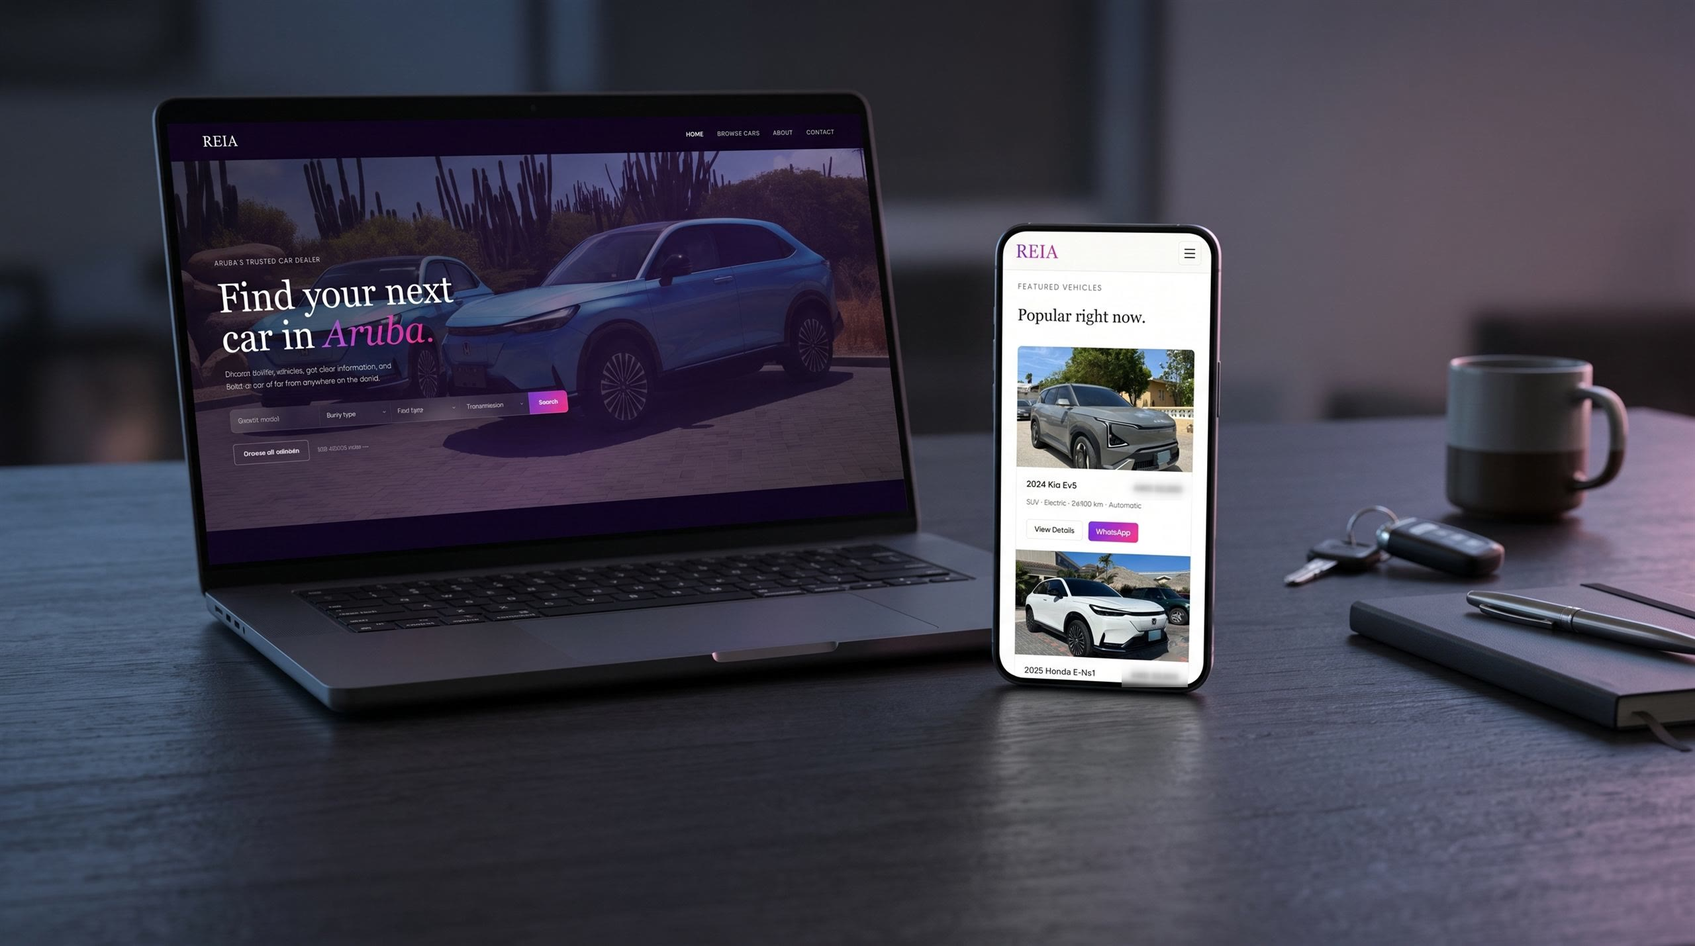
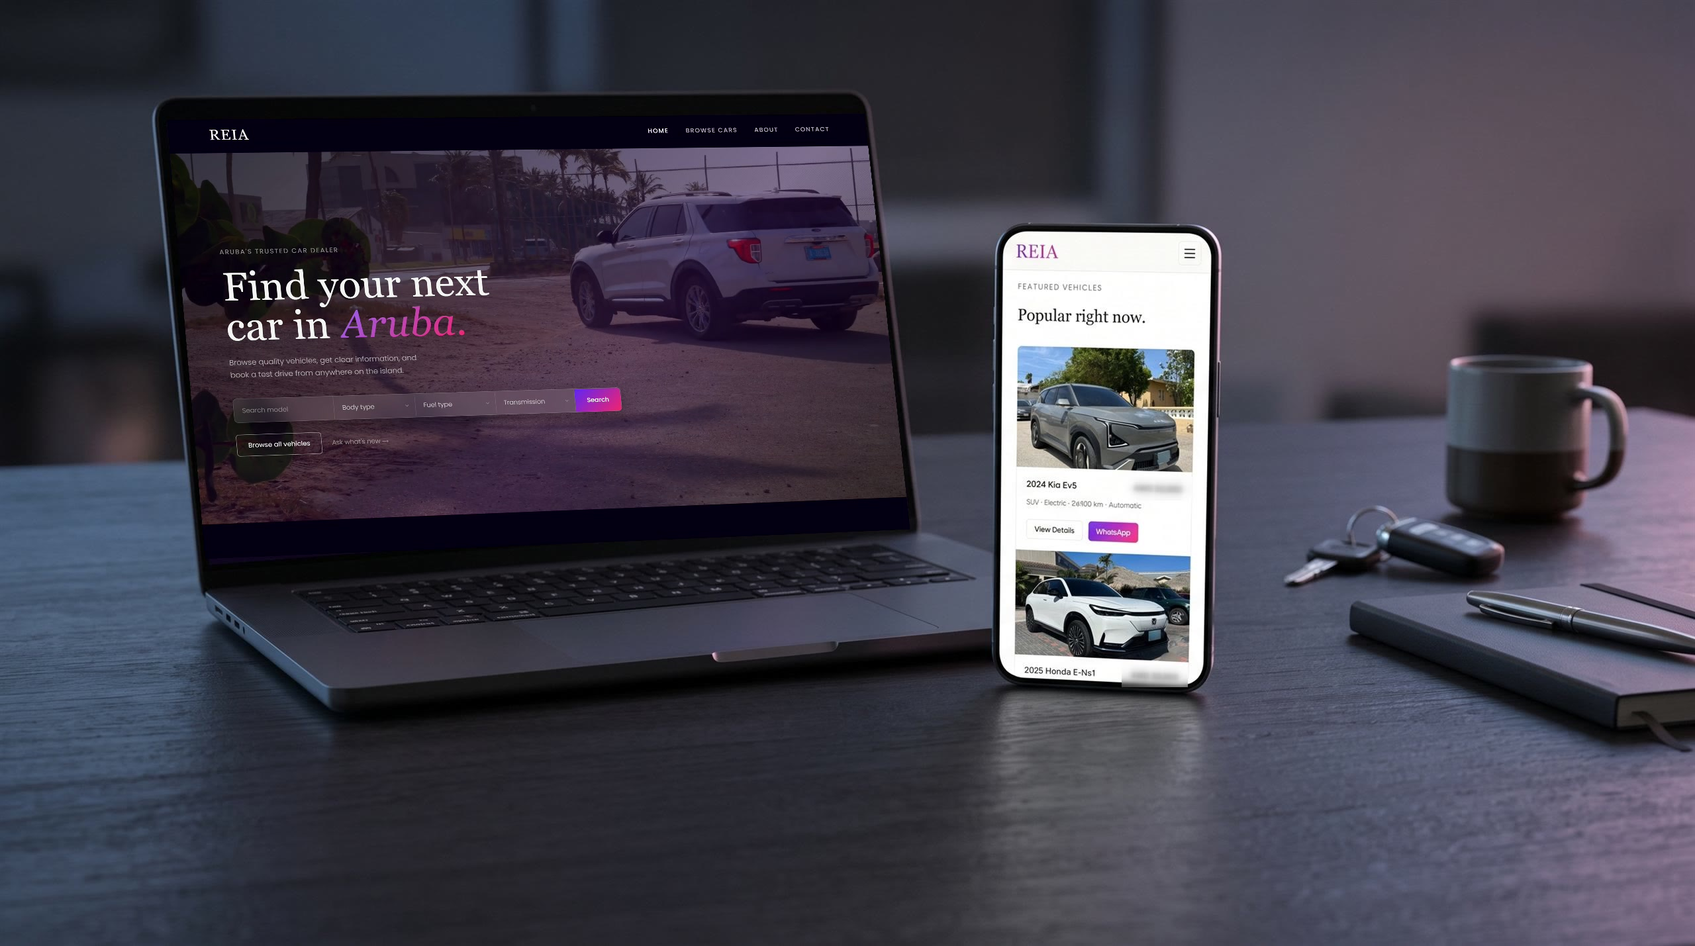
REIA: full story with takeover, research, redesign, build, tools and reflection; real site on cover laptop. Chromodynamics: mobile app before/after. New About me; more space under images

Changed region(s): [[0.0938, 0.1232, 0.5312, 0.585]]

diff --git a/reia.html b/reia.html
@@ -39,7 +39,8 @@
         <div><dt class="cv-label">Role</dt><dd>Web Designer &amp; Developer</dd></div>
         <div><dt class="cv-label">Timeline</dt><dd>Feb – Mar 2026</dd></div>
         <div><dt class="cv-label">Client</dt><dd>REIA Motors, Oranjestad, Aruba</dd></div>
-        <div><dt class="cv-label">Tools</dt><dd>Adobe XD, HTML, CSS, JavaScript, Decap CMS, GitHub, Netlify</dd></div>
+        <div><dt class="cv-label">Deliverables</dt><dd>Website redesign, live website, CMS</dd></div>
+        <div><dt class="cv-label">Tools</dt><dd>Adobe XD, Photoshop, HTML, CSS, JavaScript, Decap CMS, GitHub, Netlify</dd></div>
         <div><dt class="cv-label">Live site</dt><dd><a class="cv-link" href="https://reiamotors.com/" target="_blank" rel="noopener">reiamotors.com ↗</a></dd></div>
       </dl>
     </div>
@@ -47,7 +48,7 @@
 
   <!-- Case study body: statement and key numbers, then a sticky index (js/case-index.js) next to editorial sections -->
   <div class="ed-top">
-    <p class="ed-statement ed-serif">A website the client can run themselves: designed and built for <em>REIA Motors</em>, a used-car dealer in Aruba, from brief to live site.</p>
+    <p class="ed-statement ed-serif">I took over the website of <em>REIA Motors</em>, a used-car dealer in Aruba, redesigned it and built it with a CMS the owner can run himself.</p>
     <hr class="ed-rule" />
   </div>
 
@@ -55,43 +56,74 @@
 
     <aside class="cs-index">
       <ol>
-        <li><a href="#client"><span>01</span>The client</a></li>
-        <li><a href="#brief"><span>02</span>The brief</a></li>
-        <li><a href="#gradient"><span>03</span>The gradient</a></li>
-        <li><a href="#cms"><span>04</span>The CMS</a></li>
-        <li><a href="#role"><span>05</span>My role</a></li>
+        <li><a href="#client"><span>01</span>Introduction</a></li>
+        <li><a href="#problem"><span>02</span>The problem</a></li>
+        <li><a href="#research"><span>03</span>Research</a></li>
+        <li><a href="#design"><span>04</span>The redesign</a></li>
+        <li><a href="#build"><span>05</span>Building it</a></li>
+        <li><a href="#role"><span>06</span>My role</a></li>
+        <li><a href="#learned"><span>07</span>What I learned</a></li>
       </ol>
     </aside>
 
     <main class="cs-content">
 
       <section class="cs-section ed-text" id="client">
-        <p class="cv-label">01 — The client</p>
+        <p class="cv-label">01 — Introduction</p>
         <h2 class="ed-serif">A used-car dealer in Oranjestad</h2>
         <p>
-          REIA Motors is a used-car dealer in Oranjestad, Aruba, which also imports cars.
-          <!-- PLACEHOLDER: one sentence on who their customers are and what they had online before -->
+          REIA Motors is a used-car dealer in Oranjestad, Aruba, which also imports cars. The owner is a
+          mutual friend, and I took over the project from the people who worked on it before me while I was
+          on vacation in Aruba.
+        </p>
+        <p>
+          He wanted a website that feels clean, sleek and luxurious, and one he could manage himself without
+          calling a developer every time a car is sold or added. I had only four weeks, and full freedom: the
+          owner knew nothing about websites, so I was the expert and had to make the calls myself.
+        </p>
+      </section>
+
+      <section class="cs-section ed-text" id="problem">
+        <p class="cv-label">02 — The problem</p>
+        <h2 class="ed-serif">A design that was only half there</h2>
+        <p>
+          This is the design I took over. The gradient filled the whole navigation and footer, and the car
+          listings were still empty placeholders. It didn’t feel clean or luxurious yet, which was exactly
+          what the owner wanted.
         </p>
         <figure class="ed-media">
-          <img src="assets/projects/reia/live-site-hero.jpg" alt="REIA Motors homepage: dark hero with the pink-purple gradient on the headline and search button" />
-          <figcaption class="cv-label">The live homepage, reiamotors.com</figcaption>
+          <img src="assets/projects/reia/design-before.jpg" alt="The earlier REIA Motors design I took over: a full pink-purple gradient navigation bar, a hero photo of two cars with a search bar, and grey placeholder boxes for featured vehicles" />
+          <figcaption class="cv-label">The design from the people before me</figcaption>
         </figure>
       </section>
 
-      <section class="cs-section ed-text" id="brief">
-        <p class="cv-label">02 — The brief</p>
-        <h2 class="ed-serif">Clean, sleek, luxurious, and easy to manage</h2>
+      <section class="cs-section ed-text" id="research">
+        <p class="cv-label">03 — Research</p>
+        <h2 class="ed-serif">Learning from other car websites</h2>
         <p>
-          The client wanted a website that feels clean, sleek and luxurious, and one they could manage
-          themselves without calling a developer every time a car is sold or added.
+          Before redesigning, I looked at other car websites for inspiration. They had a few things in
+          common: a big search bar right in the hero, dark and calm backgrounds that let the cars stand out,
+          and car cards that show the key details at a glance.
         </p>
+        <div class="ed-trio">
+          <figure class="ed-media">
+            <img src="assets/projects/reia/inspo-1.jpg" alt="Inspiration: a premium car rental website with a white car in the hero and a booking search bar" />
+          </figure>
+          <figure class="ed-media">
+            <img src="assets/projects/reia/inspo-2.jpg" alt="Inspiration: a dark Porsche 911 product page with large specs" />
+          </figure>
+          <figure class="ed-media">
+            <img src="assets/projects/reia/inspo-3.jpg" alt="Inspiration: a used-car dealer website with a search bar over the hero and body style filters" />
+          </figure>
+        </div>
+        <p class="cv-label" style="margin-top:12px">Inspiration from other car websites (not my work)</p>
       </section>
 
-      <section class="cs-section ed-text" id="gradient">
-        <p class="cv-label">03 — Challenge</p>
-        <h2 class="ed-serif">Making a pink-purple gradient feel premium</h2>
+      <section class="cs-section ed-text" id="design">
+        <p class="cv-label">04 — The redesign</p>
+        <h2 class="ed-serif">Making it feel premium</h2>
         <p>
-          The client’s brand colour is a pink-purple gradient. Used everywhere, it can easily feel loud
+          The brand colour is a pink-purple gradient. Used everywhere, like in the old design, it feels loud
           rather than luxurious. My solution was restraint: the gradient appears only in a few deliberate places.
         </p>
         <div class="ed-rows">
@@ -99,38 +131,90 @@
           <div><b>Buttons</b><span>The main actions, like Search</span></div>
           <div><b>Hover underline</b><span>A gradient line under links on hover</span></div>
           <div><b>Dark hero</b><span>The hero section, where the gradient stands out most</span></div>
-          <div><b>Navigation</b><span>A light navigation bar that appears on scroll</span></div>
         </div>
         <p style="margin-top:20px">
-          Everything else stays calm and neutral, so the gradient reads as a signature rather than decoration.
-          <!-- PLACEHOLDER: the fonts you used and why you chose them -->
+          I also made a soft gradient shape in Photoshop by combining their brand colours. It comes back
+          throughout the website.
         </p>
+        <figure class="ed-media">
+          <img src="assets/projects/reia/gradient.jpg" alt="A soft, blurred pink-purple gradient shape I created for the REIA Motors website" />
+          <figcaption class="cv-label">The gradient shape I made in Photoshop</figcaption>
+        </figure>
+        <p>
+          Everything else stays calm and neutral, so the gradient reads as a signature rather than decoration.
+          For the type I used Georgia, the same serif as the logo, so the website and the brand feel like one.
+          Every car card now shows the key details and a direct WhatsApp button.
+        </p>
+        <figure class="ed-media">
+          <img src="assets/projects/reia/design-xd.jpg" alt="My REIA Motors redesign in Adobe XD: a black hero with the serif headline Find your next car in Aruba, a search bar with filters, and car cards with price, details and WhatsApp buttons" />
+          <figcaption class="cv-label">My redesign of the homepage in Adobe XD</figcaption>
+        </figure>
+        <p>
+          Being the expert also meant pushing back. When the owner wanted his logo bigger, I told him the size
+          was just right: we want people to look at the cars and buy one, not look at the logo. It went the
+          other way too. For the About page I really pushed to show the team, because faces build trust when
+          you’re buying a car, but the owner preferred to stay anonymous, so the team section didn’t make it
+          to the live site.
+        </p>
+        <figure class="ed-media">
+          <img src="assets/projects/reia/about-xd.jpg" alt="My About page design for REIA Motors in Adobe XD: the serif headline Driven by Value, Backed by Trust next to the gradient shape, the mission and four values, and a team section with the names blurred" />
+          <figcaption class="cv-label">The About page in Adobe XD, with the team names blurred</figcaption>
+        </figure>
       </section>
 
-      <section class="cs-section ed-text" id="cms">
-        <p class="cv-label">04 — Challenge</p>
-        <h2 class="ed-serif">A CMS the client could use</h2>
+      <section class="cs-section ed-text" id="build">
+        <p class="cv-label">05 — Building it</p>
+        <h2 class="ed-serif">From design to live site, with a CMS</h2>
         <p>
-          The client wanted to manage their own listings. I set up Decap CMS on top of a GitHub repository,
-          deployed through Netlify, so they can add, edit and remove cars through an editor instead of touching code.
-          <!-- PLACEHOLDER: how you onboarded the client (a handover session, a guide, something else) -->
+          I built the site myself with HTML, CSS and JavaScript. For the search bar I went for Apple’s glass
+          effect. As you can see, I’m a fan: it makes the website look clean and professional. Behind it plays
+          a video with a darker filter on top, and the navigation bar changes colour when you scroll.
+        </p>
+        <figure class="ed-media">
+          <img src="assets/projects/reia/live-site-hero.jpg" alt="REIA Motors homepage: dark hero with the pink-purple gradient on the headline and search button" />
+          <figcaption class="cv-label">The live homepage, reiamotors.com</figcaption>
+        </figure>
+        <p>
+          The owner wanted to manage his own listings, so I set up Decap CMS on top of a GitHub repository,
+          deployed through Netlify. He can add, edit and remove cars through an editor instead of touching code.
+          Before I flew back, I explained to him in person how to use it.
         </p>
       </section>
 
       <section class="cs-section ed-text" id="role">
-        <p class="cv-label">05 — My role</p>
+        <p class="cv-label">06 — My role</p>
         <h2 class="ed-serif">Design and build, end to end</h2>
         <div class="ed-rows">
-          <div><b>Design</b><span>I designed the site in Adobe XD, from the client brief to the prototype.</span></div>
+          <div><b>Design</b><span>I redesigned the site in Adobe XD, starting from the design I took over.</span></div>
           <div><b>Development</b><span>I built it myself with HTML, CSS and JavaScript (AI-assisted, reviewed and debugged by me).</span></div>
           <div><b>CMS and hosting</b><span>Decap CMS, GitHub and Netlify, so the client can manage their own listings.</span></div>
+          <div><b>Tools and tech</b><div>
+            <!-- Logos: Simple Icons (simpleicons.org) where available; Adobe, Decap and Netlify drawn as simple marks -->
+            <ul class="ed-stack">
+              <li><svg aria-hidden="true" focusable="false" viewBox="0 0 24 24" xmlns="http://www.w3.org/2000/svg"><rect x="1.5" y="1.5" width="21" height="21" rx="5" fill="none" stroke="currentColor" stroke-width="2"/><text x="12" y="16.2" text-anchor="middle" font-size="10.5" font-weight="700" font-family="Arial, sans-serif">Xd</text></svg><span>Adobe XD</span></li>
+              <li><svg aria-hidden="true" focusable="false" viewBox="0 0 24 24" xmlns="http://www.w3.org/2000/svg"><rect x="1.5" y="1.5" width="21" height="21" rx="5" fill="none" stroke="currentColor" stroke-width="2"/><text x="12" y="16.2" text-anchor="middle" font-size="10.5" font-weight="700" font-family="Arial, sans-serif">Ps</text></svg><span>Photoshop</span></li>
+              <li><svg aria-hidden="true" focusable="false" viewBox="0 0 24 24" xmlns="http://www.w3.org/2000/svg"><path d="M1.5 0h21l-1.91 21.563L11.977 24l-8.564-2.438L1.5 0zm7.031 9.75l-.232-2.718 10.059.003.23-2.622L5.412 4.41l.698 8.01h9.126l-.326 3.426-2.91.804-2.955-.81-.188-2.11H6.248l.33 4.171L12 19.351l5.379-1.443.744-8.157H8.531z"/></svg><span>HTML</span></li>
+              <li><svg aria-hidden="true" focusable="false" viewBox="0 0 24 24" xmlns="http://www.w3.org/2000/svg"><path d="M1.5 0h21l-1.91 21.563L11.977 24l-8.565-2.438L1.5 0zm17.09 4.413L5.41 4.41l.213 2.622 10.125.002-.255 2.716h-6.64l.24 2.573h6.182l-.366 3.523-2.91.804-2.956-.81-.188-2.11h-2.61l.29 3.855L12 19.288l5.373-1.53L18.59 4.414z"/></svg><span>CSS</span></li>
+              <li><svg aria-hidden="true" focusable="false" viewBox="0 0 24 24" xmlns="http://www.w3.org/2000/svg"><path d="M0 0h24v24H0V0zm22.034 18.276c-.175-1.095-.888-2.015-3.003-2.873-.736-.345-1.554-.585-1.797-1.14-.091-.33-.105-.51-.046-.705.15-.646.915-.84 1.515-.66.39.12.75.42.976.9 1.034-.676 1.034-.676 1.755-1.125-.27-.42-.404-.601-.586-.78-.63-.705-1.469-1.065-2.834-1.034l-.705.089c-.676.165-1.32.525-1.71 1.005-1.14 1.291-.811 3.541.569 4.471 1.365 1.02 3.361 1.244 3.616 2.205.24 1.17-.87 1.545-1.966 1.41-.811-.18-1.26-.586-1.755-1.336l-1.83 1.051c.21.48.45.689.81 1.109 1.74 1.756 6.09 1.666 6.871-1.004.029-.09.24-.705.074-1.65l.046.067zm-8.983-7.245h-2.248c0 1.938-.009 3.864-.009 5.805 0 1.232.063 2.363-.138 2.711-.33.689-1.18.601-1.566.48-.396-.196-.597-.466-.83-.855-.063-.105-.11-.196-.127-.196l-1.825 1.125c.305.63.75 1.172 1.324 1.517.855.51 2.004.675 3.207.405.783-.226 1.458-.691 1.811-1.411.51-.93.402-2.07.397-3.346.012-2.054 0-4.109 0-6.179l.004-.056z"/></svg><span>JavaScript</span></li>
+              <li><svg aria-hidden="true" focusable="false" viewBox="0 0 24 24" xmlns="http://www.w3.org/2000/svg"><path d="M3 17.25V21h3.75L17.81 9.94l-3.75-3.75L3 17.25zM20.71 7.04a1 1 0 0 0 0-1.41l-2.34-2.34a1 1 0 0 0-1.41 0l-1.83 1.83 3.75 3.75 1.83-1.83z"/></svg><span>Decap CMS</span></li>
+              <li><svg aria-hidden="true" focusable="false" viewBox="0 0 24 24" xmlns="http://www.w3.org/2000/svg"><path d="M12 .297c-6.63 0-12 5.373-12 12 0 5.303 3.438 9.8 8.205 11.385.6.113.82-.258.82-.577 0-.285-.01-1.04-.015-2.04-3.338.724-4.042-1.61-4.042-1.61C4.422 18.07 3.633 17.7 3.633 17.7c-1.087-.744.084-.729.084-.729 1.205.084 1.838 1.236 1.838 1.236 1.07 1.835 2.809 1.305 3.495.998.108-.776.417-1.305.76-1.605-2.665-.3-5.466-1.332-5.466-5.93 0-1.31.465-2.38 1.235-3.22-.135-.303-.54-1.523.105-3.176 0 0 1.005-.322 3.3 1.23.96-.267 1.98-.399 3-.405 1.02.006 2.04.138 3 .405 2.28-1.552 3.285-1.23 3.285-1.23.645 1.653.24 2.873.12 3.176.765.84 1.23 1.91 1.23 3.22 0 4.61-2.805 5.625-5.475 5.92.42.36.81 1.096.81 2.22 0 1.606-.015 2.896-.015 3.286 0 .315.21.69.825.57C20.565 22.092 24 17.592 24 12.297c0-6.627-5.373-12-12-12"/></svg><span>GitHub</span></li>
+              <li><svg aria-hidden="true" focusable="false" viewBox="0 0 24 24" xmlns="http://www.w3.org/2000/svg"><path d="M12 1.5 22.5 12 12 22.5 1.5 12Z" fill="none" stroke="currentColor" stroke-width="2"/><circle cx="12" cy="12" r="2.6"/></svg><span>Netlify</span></li>
+              <li><svg aria-hidden="true" focusable="false" viewBox="0 0 24 24" xmlns="http://www.w3.org/2000/svg"><path d="m4.7144 15.9555 4.7174-2.6471.079-.2307-.079-.1275h-.2307l-.7893-.0486-2.6956-.0729-2.3375-.0971-2.2646-.1214-.5707-.1215-.5343-.7042.0546-.3522.4797-.3218.686.0608 1.5179.1032 2.2767.1578 1.6514.0972 2.4468.255h.3886l.0546-.1579-.1336-.0971-.1032-.0972L6.973 9.8356l-2.55-1.6879-1.3356-.9714-.7225-.4918-.3643-.4614-.1578-1.0078.6557-.7225.8803.0607.2246.0607.8925.686 1.9064 1.4754 2.4893 1.8336.3643.3035.1457-.1032.0182-.0728-.164-.2733-1.3539-2.4467-1.445-2.4893-.6435-1.032-.17-.6194c-.0607-.255-.1032-.4674-.1032-.7285L6.287.1335 6.6997 0l.9957.1336.419.3642.6192 1.4147 1.0018 2.2282 1.5543 3.0296.4553.8985.2429.8318.091.255h.1579v-.1457l.1275-1.706.2368-2.0947.2307-2.6957.0789-.7589.3764-.9107.7468-.4918.5828.2793.4797.686-.0668.4433-.2853 1.8517-.5586 2.9021-.3643 1.9429h.2125l.2429-.2429.9835-1.3053 1.6514-2.0643.7286-.8196.85-.9046.5464-.4311h1.0321l.759 1.1293-.34 1.1657-1.0625 1.3478-.8804 1.1414-1.2628 1.7-.7893 1.36.0729.1093.1882-.0183 2.8535-.607 1.5421-.2794 1.8396-.3157.8318.3886.091.3946-.3278.8075-1.967.4857-2.3072.4614-3.4364.8136-.0425.0304.0486.0607 1.5482.1457.6618.0364h1.621l3.0175.2247.7892.522.4736.6376-.079.4857-1.2142.6193-1.6393-.3886-3.825-.9107-1.3113-.3279h-.1822v.1093l1.0929 1.0686 2.0035 1.8092 2.5075 2.3314.1275.5768-.3218.4554-.34-.0486-2.2039-1.6575-.85-.7468-1.9246-1.621h-.1275v.17l.4432.6496 2.3436 3.5214.1214 1.0807-.17.3521-.6071.2125-.6679-.1214-1.3721-1.9246L14.38 17.959l-1.1414-1.9428-.1397.079-.674 7.2552-.3156.3703-.7286.2793-.6071-.4614-.3218-.7468.3218-1.4753.3886-1.9246.3157-1.53.2853-1.9004.17-.6314-.0121-.0425-.1397.0182-1.4328 1.9672-2.1796 2.9446-1.7243 1.8456-.4128.164-.7164-.3704.0667-.6618.4008-.5889 2.386-3.0357 1.4389-1.882.929-1.0868-.0062-.1579h-.0546l-6.3385 4.1164-1.1293.1457-.4857-.4554.0608-.7467.2307-.2429 1.9064-1.3114Z"/></svg><span>Claude Code</span></li>
+            </ul>
+          </div></div>
         </div>
         <p style="margin-top:20px">
           The site is live at
           <a class="ed-inline-link" href="https://reiamotors.com/" target="_blank" rel="noopener">reiamotors.com</a>,
           so you can see it in use.
         </p>
-        <!-- PLACEHOLDER (hidden until written): Process, Result and Reflection sections, with matching index items -->
+      </section>
+
+      <section class="cs-section" id="learned">
+        <p class="cv-label">07 — What I learned</p>
+        <div class="ed-quote">
+          <p class="ed-serif">“I had never worked with a backend before, and I kind of overshot when I said I could do it. But with Claude Code I managed to connect everything and make it work, which felt a little magical. It’s a simple system, but building the CMS made me feel like an actual developer and gave me a lot more confidence with technology.”</p>
+        </div>
       </section>
 
     </main>

diff --git a/chromodynamics.html b/chromodynamics.html
@@ -224,7 +224,6 @@
             <span>Body text · Regular</span>
           </div>
         </div>
-        <!-- PLACEHOLDER (hidden until available): the meaning behind the mark, plus brand guide spreads -->
       </section>
 
       <section class="cs-section ed-text" id="website">
@@ -239,11 +238,29 @@
       <section class="cs-section ed-text" id="app">
         <p class="cv-label">06 — App UI redesign</p>
         <h2 class="ed-serif">Slide Runner, in the new brand</h2>
+        <p>
+          The mobile app is used to enrol microscope slides into an experiment by scanning their QR codes.
+          The flow worked, but the screens were inconsistent: grey cards, small headings and only three
+          vague steps on the start screen.
+        </p>
+        <figure class="ed-media">
+          <img src="assets/projects/chromodynamics/app-mobile-old.jpg" alt="The old Slide Runner mobile enrolment flow in light and dark mode, with grey cards and small headings" />
+          <figcaption class="cv-label">Before: the original enrolment flow</figcaption>
+        </figure>
+        <p>
+          In the redesign I used the new brand fonts and colours, made the headings bigger and wrote out every
+          step on the start screen, in both light and dark mode. The screens are a prototype for the
+          front-end developer, who was also my coach, to build from, so the camera view is shown as a frame
+          for lining up the QR code.
+        </p>
+        <figure class="ed-media">
+          <img src="assets/projects/chromodynamics/app-mobile-new.jpg" alt="The redesigned Slide Runner mobile enrolment flow in light and dark mode, in the new red and orange brand" />
+          <figcaption class="cv-label">After: the redesigned enrolment flow</figcaption>
+        </figure>
         <figure class="ed-media">
           <img src="assets/projects/chromodynamics/slide-runner-home.png" alt="Slide Runner app home screen with login and scanning status" />
           <figcaption class="cv-label">Slide Runner app: home screen</figcaption>
         </figure>
-        <!-- PLACEHOLDER (hidden until available): a before / after of the old app, and the result and reflection -->
       </section>
 
       <section class="cs-section" id="learned">

diff --git a/index.html b/index.html
@@ -94,19 +94,19 @@
             <h1>ABOUT ME</h1>
             <p>
                 Hi, my name is Xinamayca and I’m an ICT & Media Design student in my last year at
-                Fontys Eindhoven. I’m a digital orchestrator, meaning I’m not boxed into one stage of
-                the process. With the tools available today, especially AI, I can move from creative
-                brainstorming all the way through to development, shaping an idea from spark to shipped
-                product. I’m strongest in UX/UI design, as you can see from my portfolio. <br><br>
+                Fontys Eindhoven. Although I’m strongest in UX/UI design, I don’t keep myself boxed into
+                one stage of the process. With the tools available today, especially AI, I can move from
+                creative brainstorming all the way through to development, shaping an idea from spark to
+                shipped product. <br><br>
 
                 I like working on projects that push me outside my comfort zone and challenge my
                 creativity, especially ones that solve a social problem. I got to do exactly that during
                 my minor last semester, and also during my internship at Chromodynamics. <br><br>
 
-                Right now, I’m doing Advanced Immersive Experience for my 7th semester, working with XR
-                technology for the first time, a challenge I’m excited for. I’m also currently looking
-                for a graduating internship where I can help build creative solutions and good user
-                experiences. <br><br>
+                Right now, I’m following Advanced Immersive Experience for my 7th semester. It’s my first
+                time working with XR, and I’m excited to find out how good user experience translates
+                from a screen to a 3D space. I’m also looking for a graduation internship where I can
+                help build creative solutions and good user experiences. <br><br>
 
                 Outside of school, I practice Olympic weightlifting and I’m a big music enthusiast. I’m
                 also from Aruba, so I’m very in touch with my island vibes, and I bring that energy to a

diff --git a/css/styles.css b/css/styles.css
@@ -1541,6 +1541,12 @@ section {
   margin-top: 10px;
 }
 
+/* Text that follows an image (or its caption) gets the same breathing room as the space above the image */
+.ed-text :is(figure, .ed-pair, .ed-trio, .ed-logos, .ed-palette, .ed-type) + p:not(.cv-label),
+.ed-text p.cv-label + p:not(.cv-label) {
+  margin-top: 32px;
+}
+
 /* Photo captions: small, quiet sentence case in the body font, not the big uppercase section-label style */
 .cs-section figcaption.cv-label {
   font-family: 'helvetica', Arial, sans-serif;
